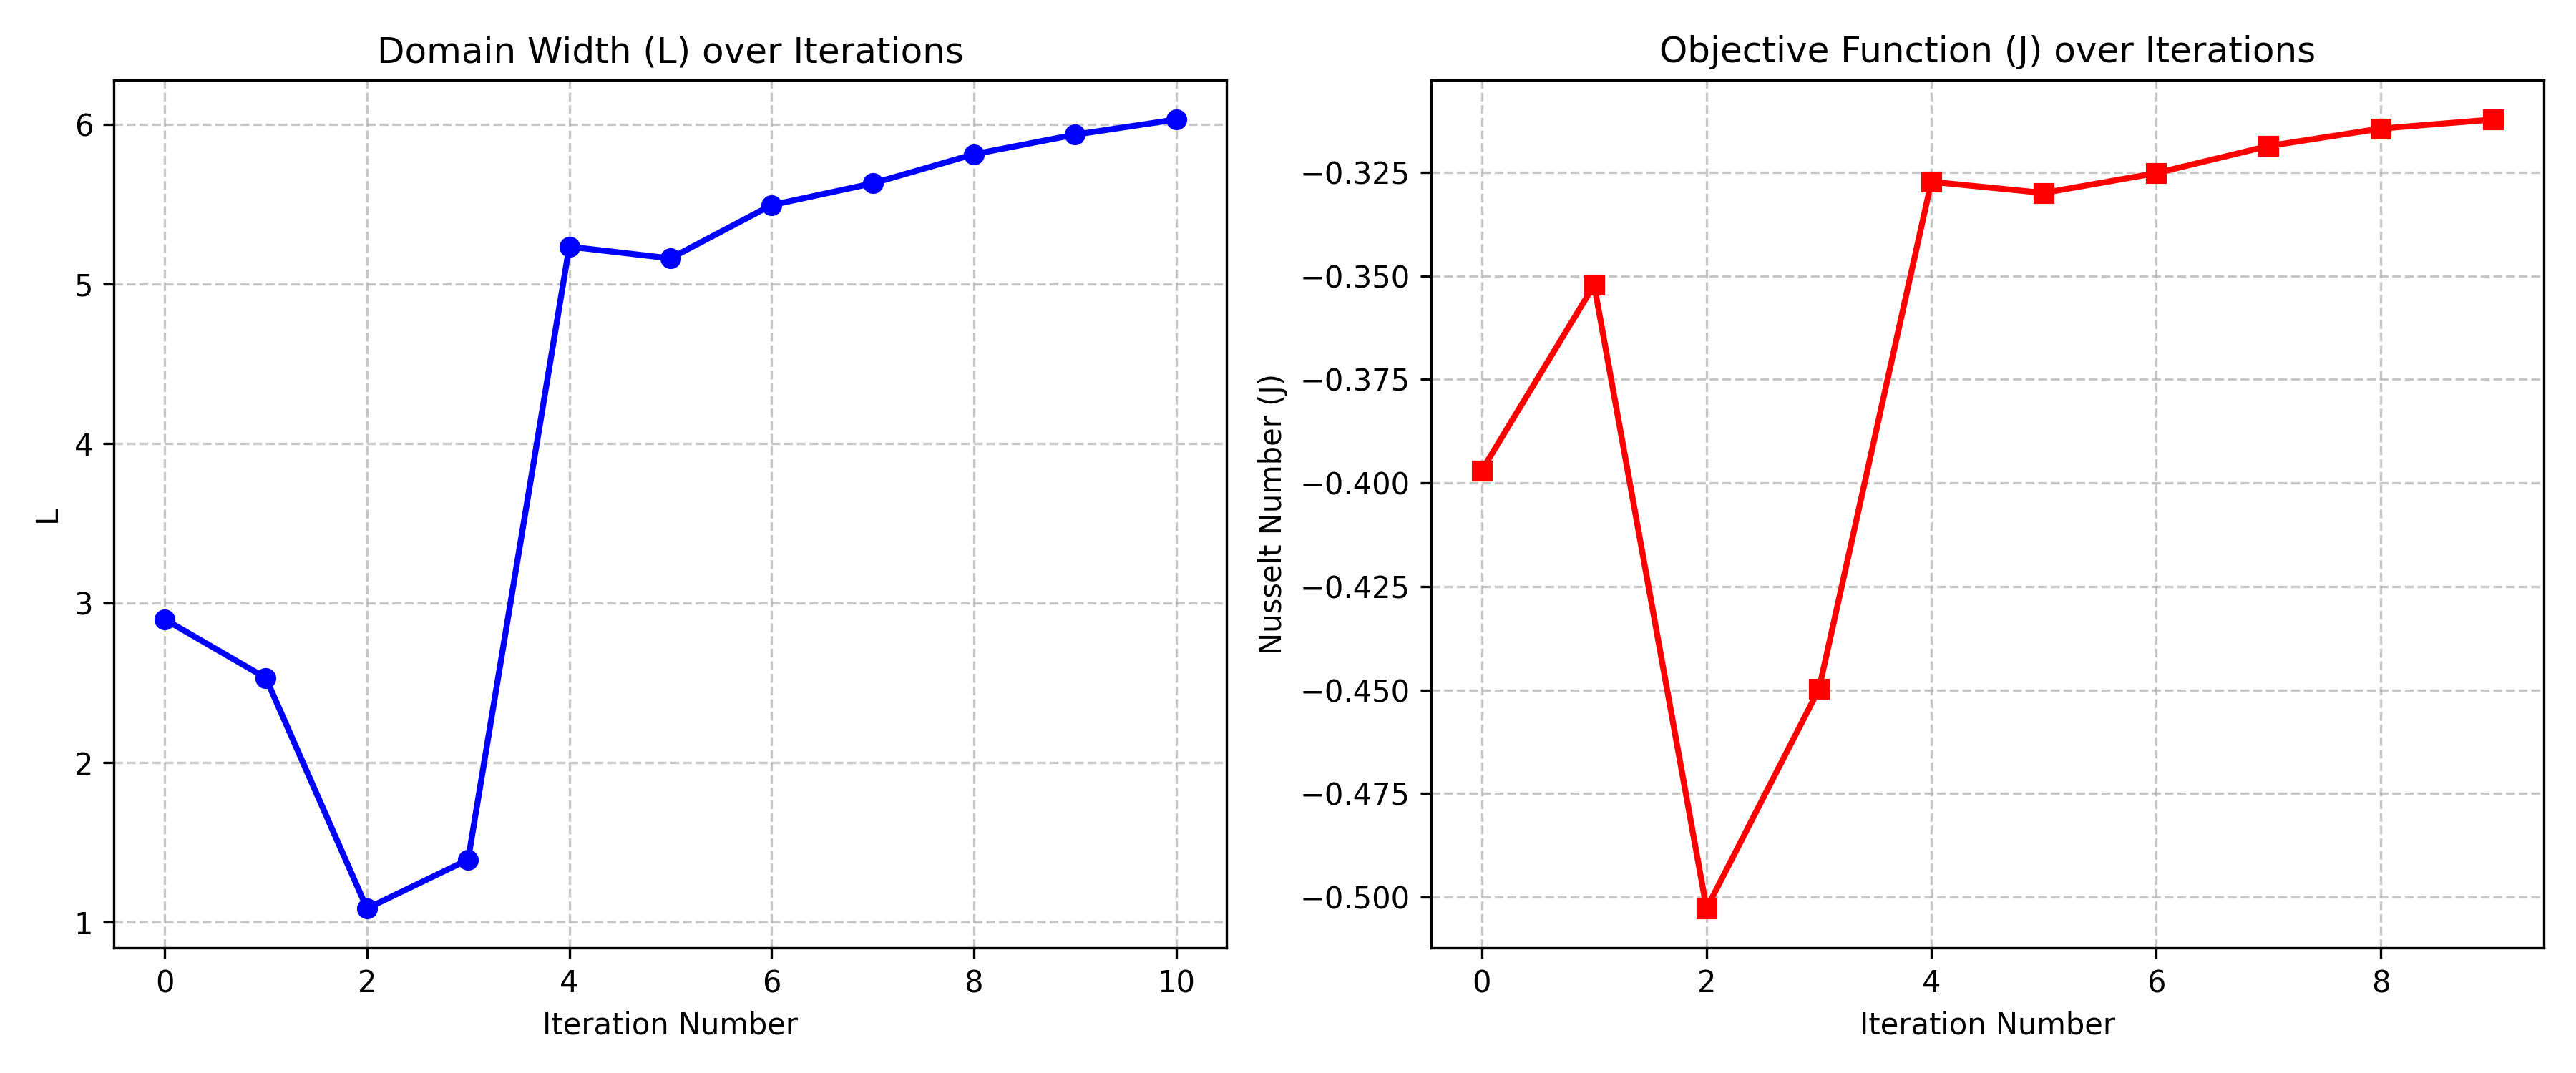
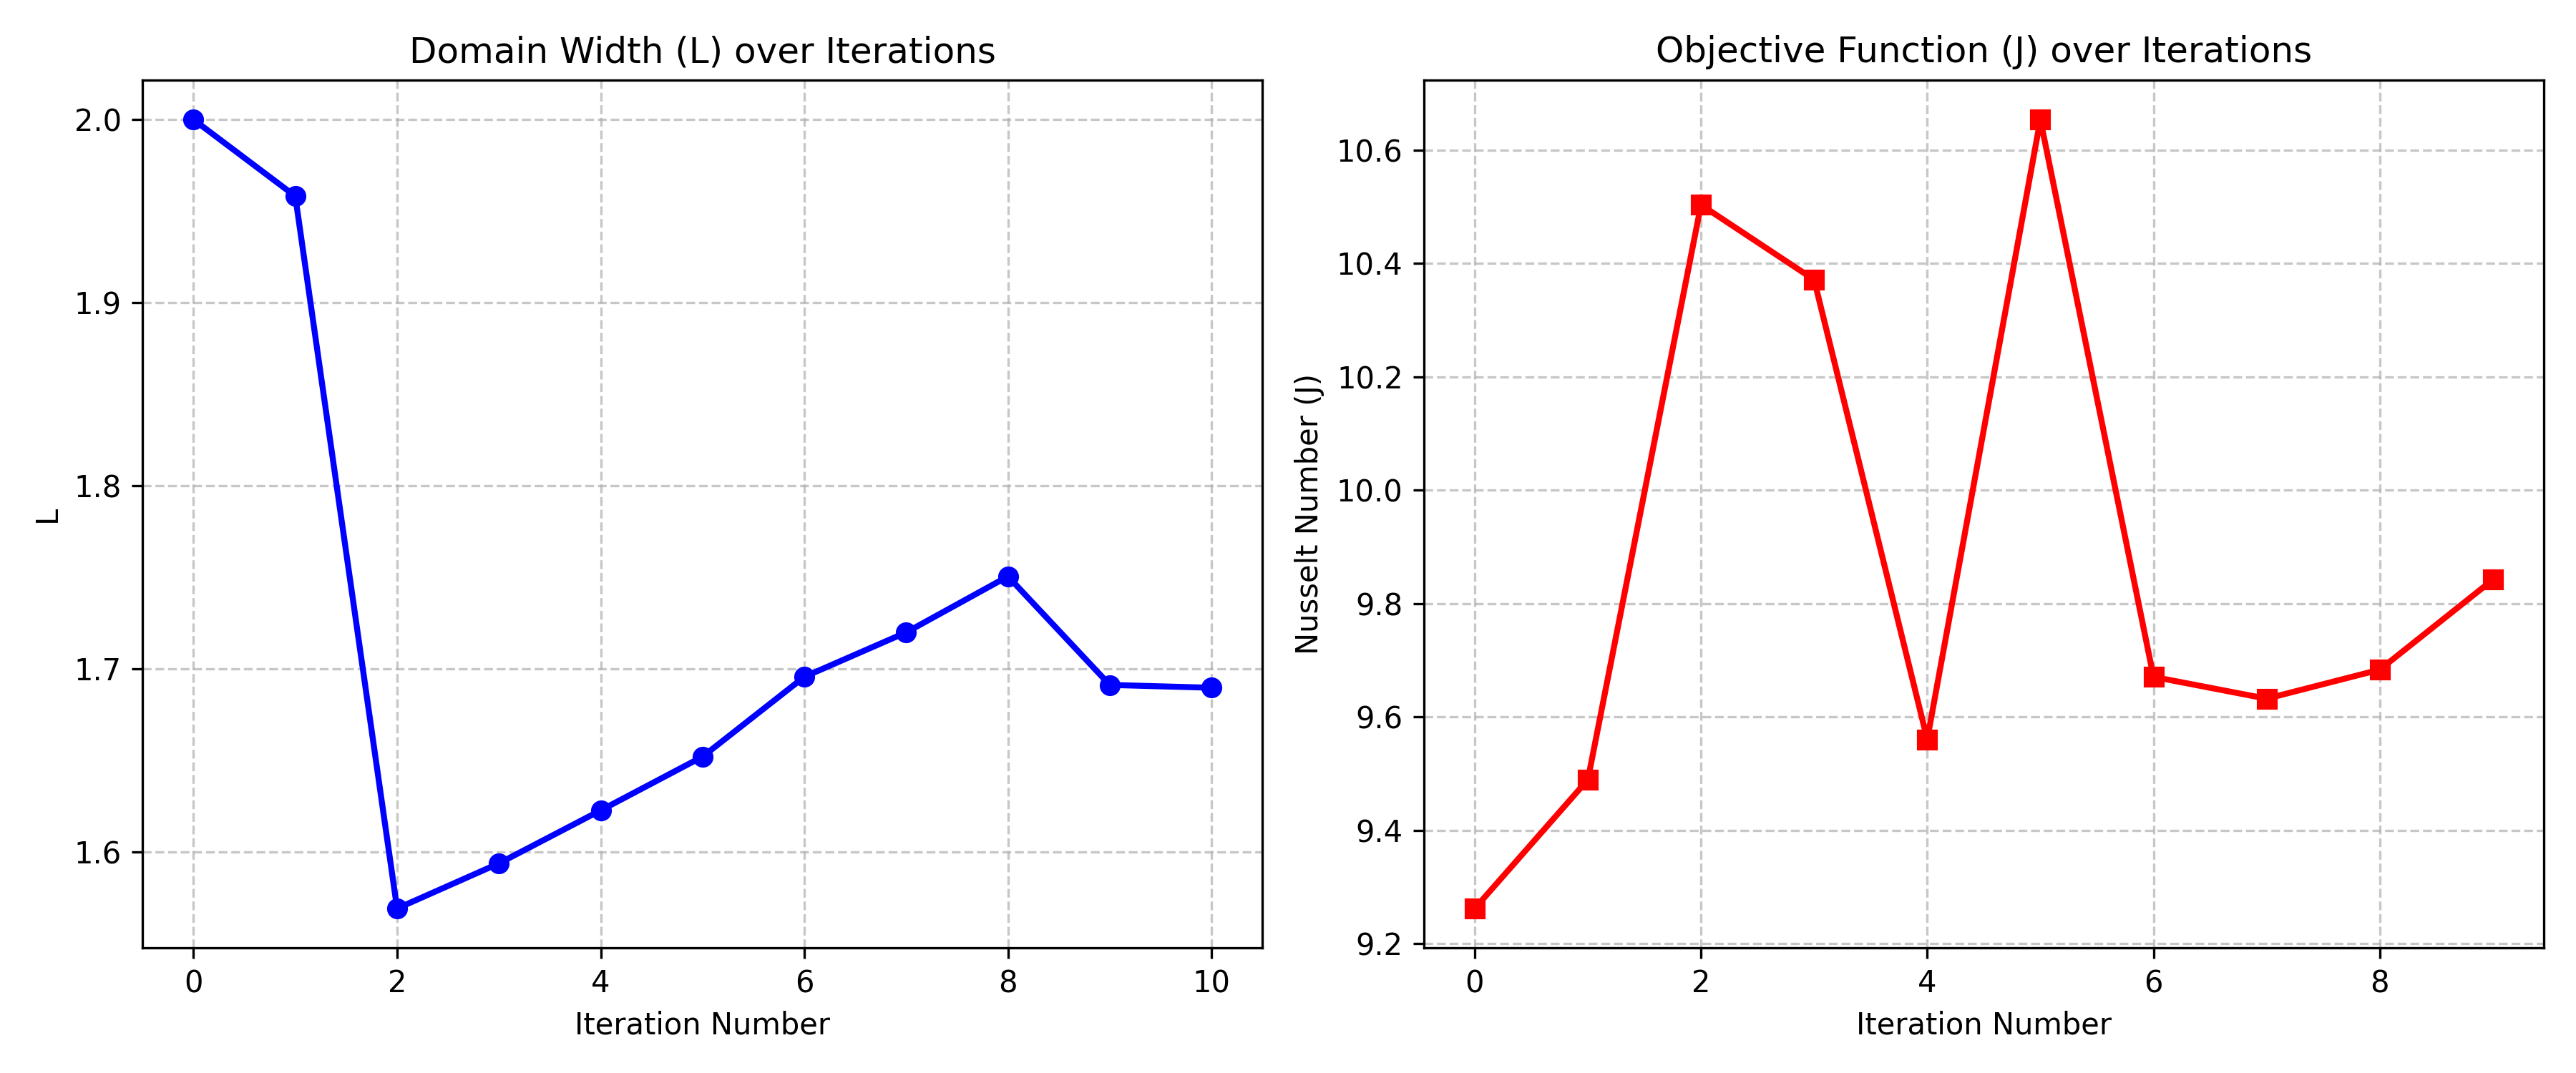
17/07/26 Update

diff --git a/Adjoint_Problems/Boussinesq_optimisation.py b/Adjoint_Problems/Boussinesq_optimisation.py
@@ -10,12 +10,12 @@ logging.basicConfig(level=logging.INFO)
 logger = logging.getLogger(__name__)
 
 # ---------------- Global Parameters ----------------
-Nx, Nz = 512, 128
+Nx, Nz = 256, 64
 Lz = 1
 Rayleigh = 2e6
 Prandtl = 1
 nu = (Rayleigh / Prandtl)**(-1/2)
-stop_sim_time = 4e-2
+stop_sim_time = 5e-2
 max_timestep = 1e-5
 dtype = np.float64
 timestepper = d3.RK222
@@ -74,7 +74,13 @@ def evaluate_objective_and_gradient(params):
     solver.stop_sim_time = stop_sim_time
     
     # Standard conductive profile initial conditions
-    perturbation = 0.01 * np.sin(2 * np.pi * x / L_val) * np.sin(np.pi * z)
+    # Generate reproducible local random noise for each MPI rank
+    local_shape = x.shape
+    local_noise = np.random.RandomState(seed=42 + dist.comm.rank).uniform(-0.01, 0.01, size=local_shape)
+    
+    # Apply noise in x, but restrict to boundaries in z
+    perturbation = local_noise * np.sin(np.pi * z)
+    
     T['g'] = 1 - z + perturbation
     u['g'] = 0
 
@@ -124,12 +130,12 @@ def evaluate_objective_and_gradient(params):
         saved_states_p.append(p['c'].copy())
         saved_dts.append(timestep)
         
-        # Accumulate the time-averaged objective function safely across all cores
+        # Accumulate the time-averaged objective function safely
         local_J_array = J_integrand.evaluate()['g']
-        local_J = local_J_array[0, 0] if local_J_array.size > 0 else 0.0
-        spatial_J = dist.comm.allreduce(local_J, op=MPI.SUM)
+        # .flatten() safely extracts the scalar value regardless of array shape
+        local_J = local_J_array.flatten()[0] if local_J_array.size > 0 else 0.0
         
-        J_val += spatial_J * timestep
+        J_val += local_J * timestep
 
     if np.isnan(J_val) or np.isinf(J_val):
         logger.warning(f"Forward simulation diverged to NaN for L={L_val:.4f}. Rejecting step.")
@@ -198,10 +204,9 @@ def evaluate_objective_and_gradient(params):
         adjoint_solver.step(backward_timestep)
         
         local_grad_array = grad_L_integrand.evaluate()['g']
-        local_grad = local_grad_array[0, 0] if local_grad_array.size > 0 else 0.0
-        spatial_integral = dist.comm.allreduce(local_grad, op=MPI.SUM)
+        local_grad = local_grad_array.flatten()[0] if local_grad_array.size > 0 else 0.0
         
-        grad_L_val += spatial_integral * backward_timestep
+        grad_L_val += local_grad * backward_timestep
 
     # SciPy minimize looks for minimum, but we want to maximize Nusselt number. 
     # Therefore, return negative J and negative Gradient.
@@ -227,9 +232,9 @@ def tracking_callback(xk):
 
 if __name__ == "__main__":
     # ---------------- Custom Gradient Ascent Setup ----------------
-    L_current = 2.9        # Initial guess
-    alpha = 0.1            # Learning rate (You may need to tune this higher or lower)
-    max_iterations = 2    # Number of optimization steps
+    L_current = 2.0        # Initial guess
+    alpha = 0.01            # Learning rate (You may need to tune this higher or lower)
+    max_iterations = 10    # Number of optimization steps
     
     L_history = [L_current]
     J_history = []

diff --git a/Adjoint_Problems/visualise_temperature.py b/Adjoint_Problems/visualise_temperature.py
@@ -19,7 +19,7 @@ field_to_plot = 'temperature'
 output_movie = 'temperature_fixed.mp4'
 
 # Dimensions
-extent = [0, 4, 0, 1]
+extent = [0, 1.6912, 0, 1]
 
 print(f"Searching for data in '/{data_folder}'...")
 